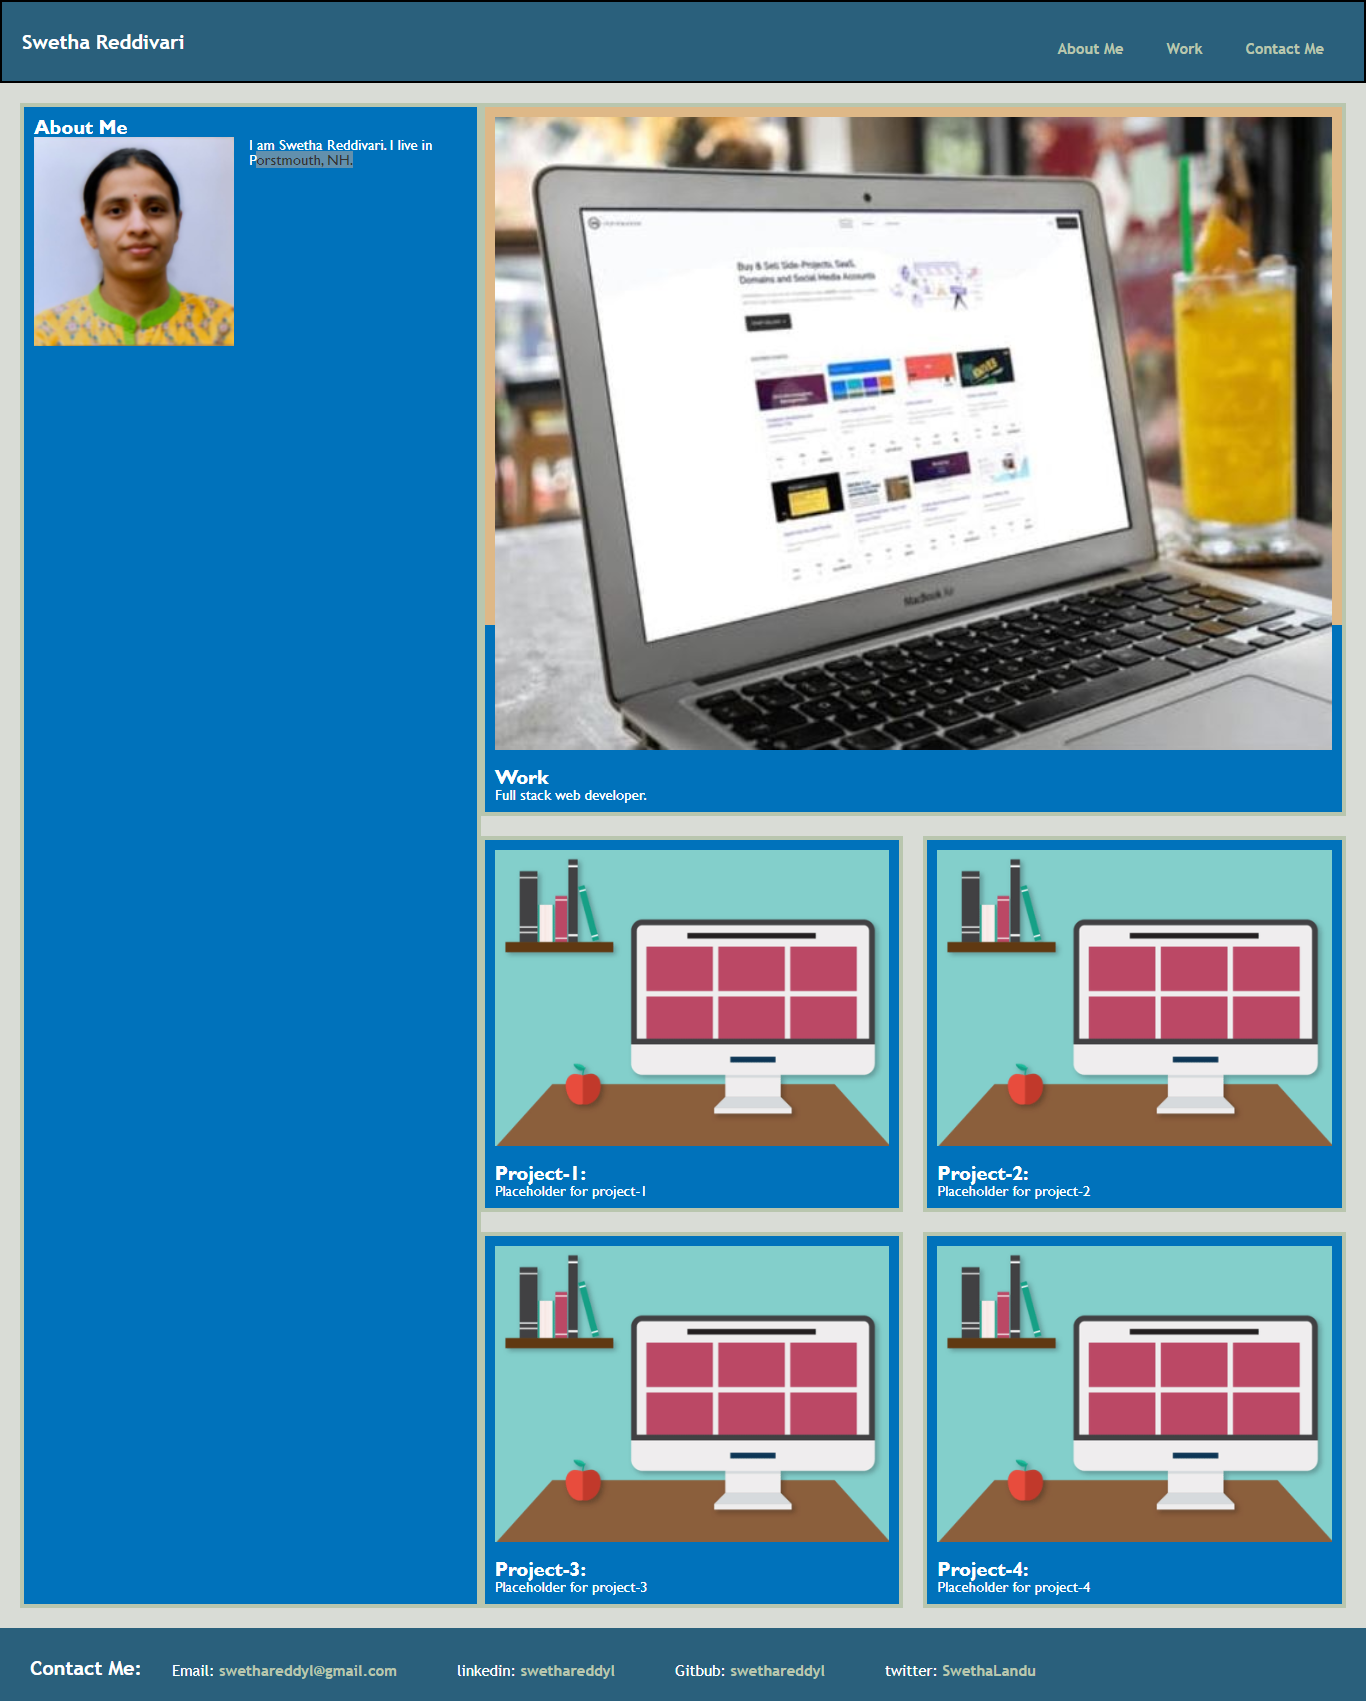
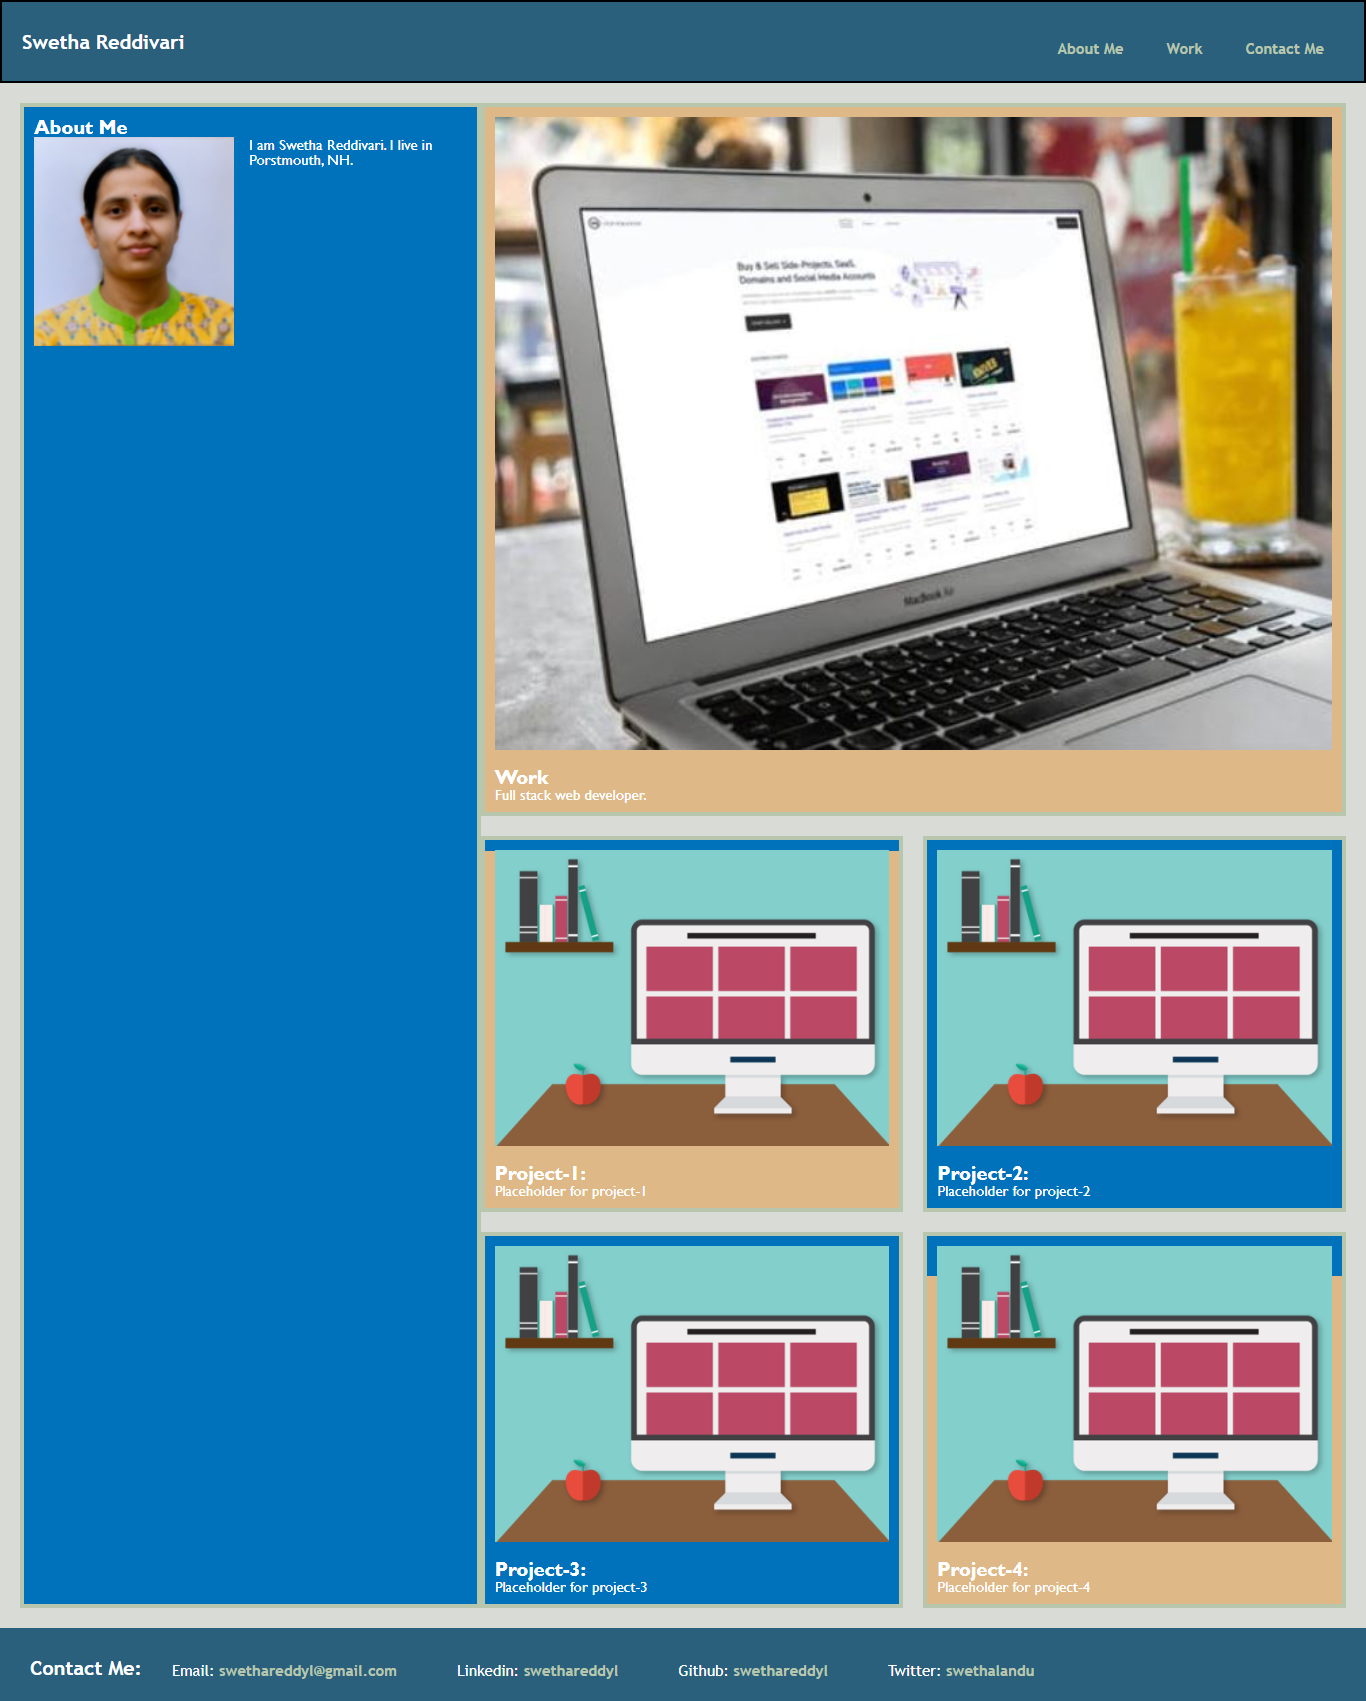
updated readme.md and mockup image

diff --git a/README.md b/README.md
@@ -38,7 +38,7 @@ As the employer visits the page, employee's portfolio page should display the wo
 
 ## Mock-Up
 
-The following animation shows the web application's appearance and functionality:
+The following mockup shows the portfolio application's appearance and functionality:
 
 ![Portfolio](./assets/images/portfolio-mockup.png)
 
